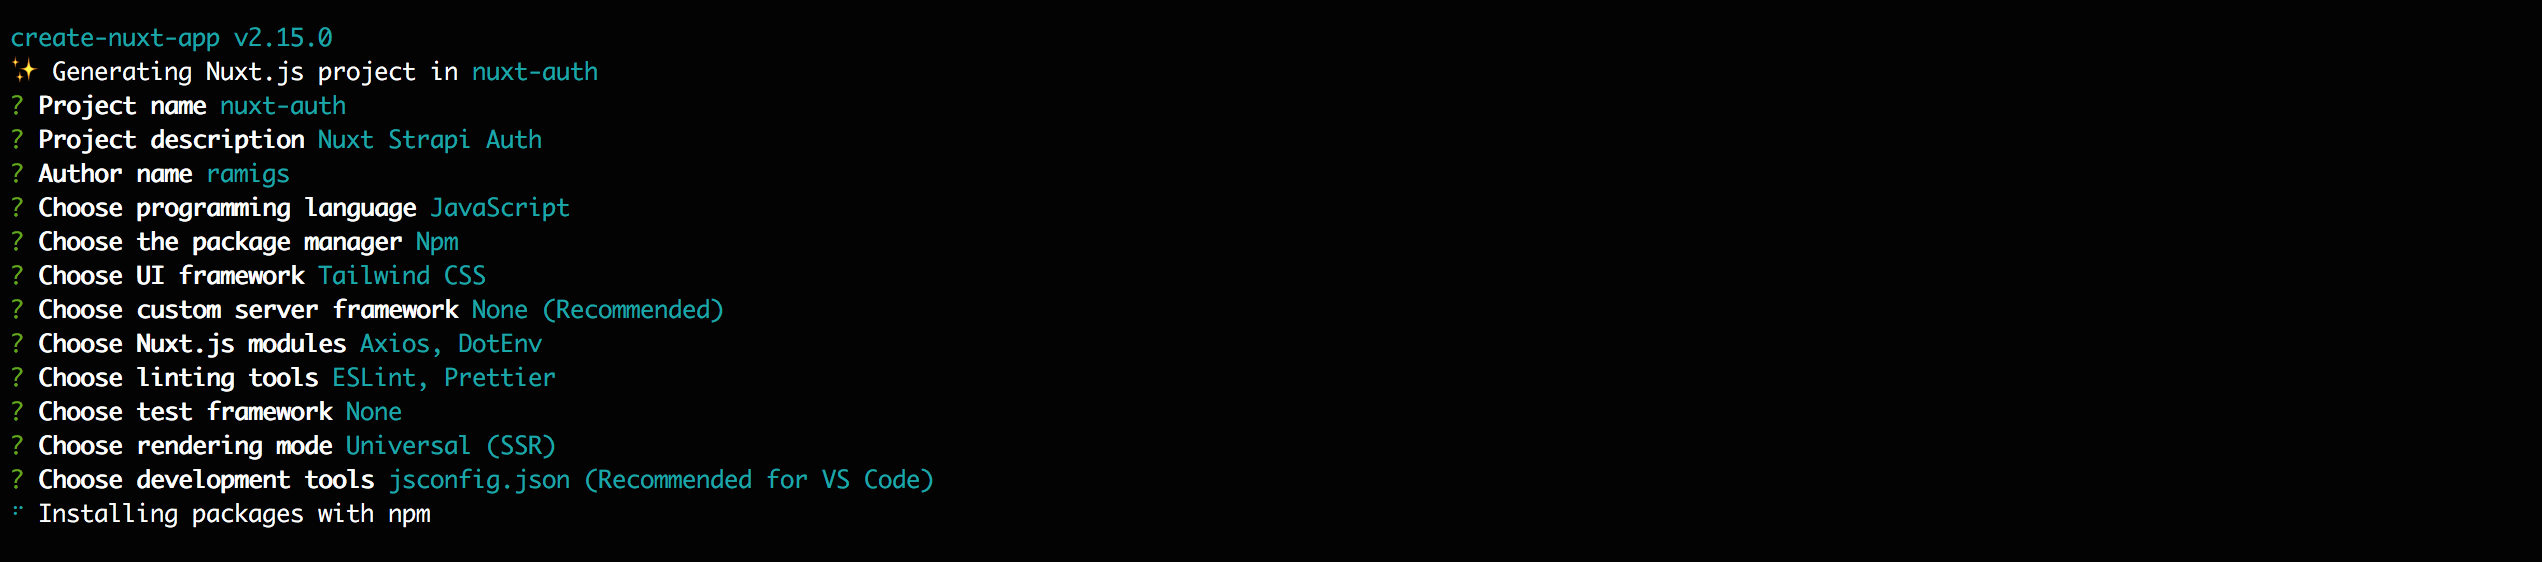
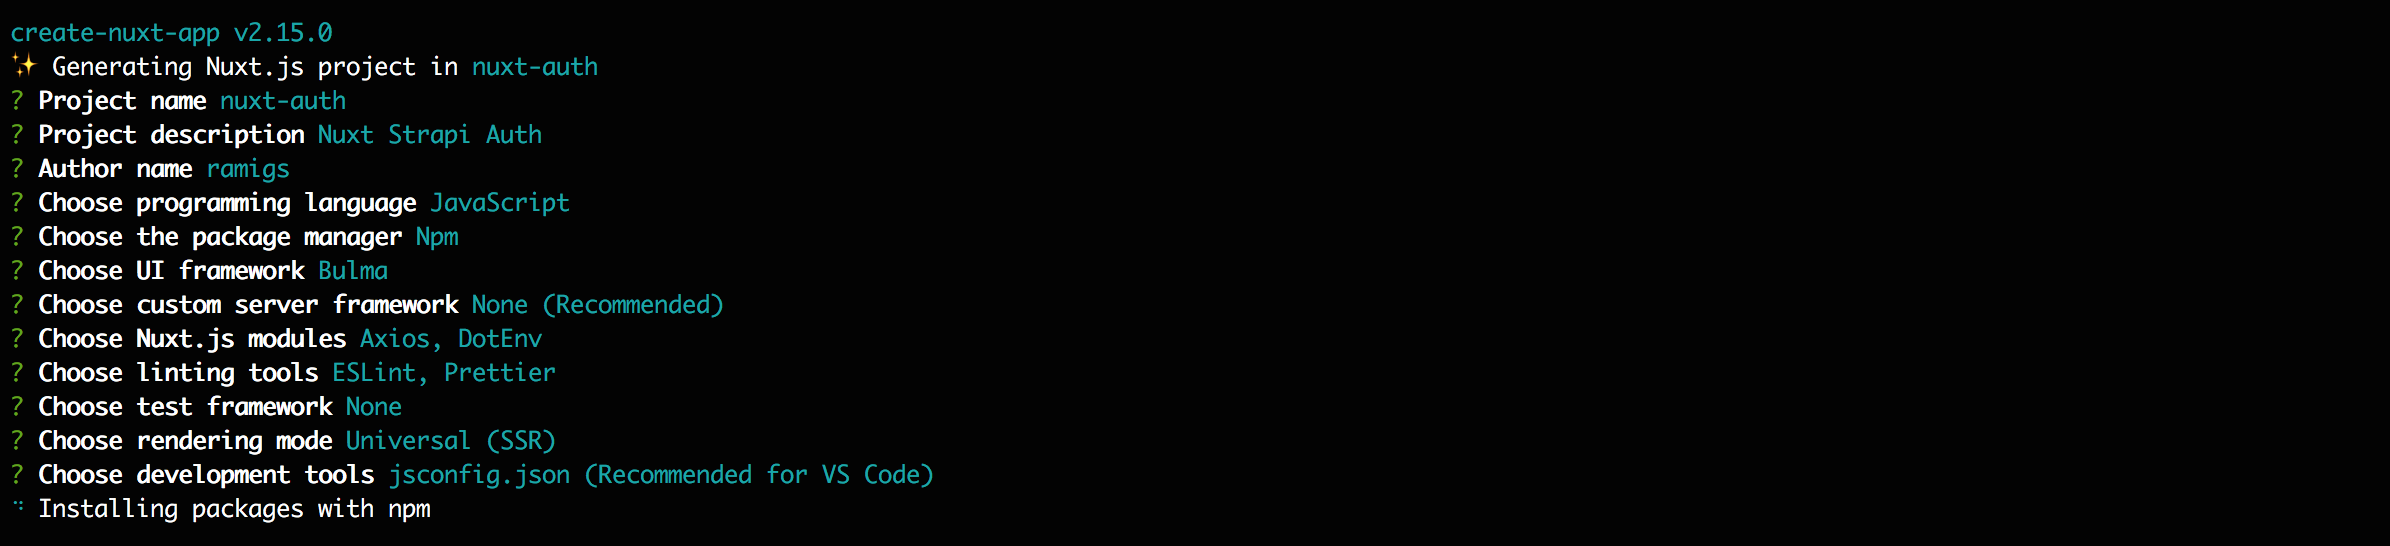
updated

Changed region(s): [[0.0, 0.0311, 0.4025, 0.9652]]

diff --git a/strapi-nuxt.md b/strapi-nuxt.md
@@ -1,5 +1,8 @@
 # Strapi Authentication in a Nuxt.js App
 
+In this tutorial I'll be showing you how I built a Vue.js app with
+Authentication using Cosmic JS and AWS Lambda prior to deploying to Netlify.
+
 is going to walk you through on how to implement Strapi
 authentication in a Nuxt.js app.
 
@@ -14,12 +17,9 @@ adapting it to Strapi and adding the following:
 - Refresh token strategy
 - Password recovery
 
-Tailwind (because I've been wanting to
-learn it for quite some time now :) also checkout the new nuxt/tailwind module.
-https://www.npmjs.com/package/@nuxtjs/tailwindcss
-
 ## Pre-requisites
 
+You will be required to have Node JS and npm before starting. Make sure you already have them installed. If not you can find them here: https://nodejs.org
 Before we move on, I’d like to mention that although not mandatory, a working
 knowledge of the following technologies is beneficial:
 
@@ -31,7 +31,7 @@ Before you begin, you'll need:
 Strapi 3.0.1
 Nuxt.js v2.12.2
 
-Let's begin!
+Let's get started!
 
 ## Installing Strapi
 
@@ -117,13 +117,16 @@ npx create-nuxt-app nuxt-auth
 Go through the guide and make sure to select the following options:
 
 - axios and dotenv in the **Nuxt.js modules** step
-- Tailwind CSS in the **UI framework** step, which we'll use to style our app
+- Bulma CSS in the **UI framework** step, which we'll use to style our app
 
 ![Create Nuxt app](./create-nuxt-app-options.png)
 
 Once the tool finishes creating our Nuxt app,
 
 Let's edit the .env file and add an environment variable for Strapi's API URL:
+"Next, you'll need to make sure you have a .env file in your root project
+directory to change the VUE_APP_API_HOST variable to point to the lambda server
+you just started running."
 
 ```
 API_AUTH_URL=http://localhost:1337
@@ -143,6 +146,8 @@ Edit `nuxt.config.js` adding the module we've just installed:
 
 ```javascript
 modules: [
+  // Doc: https://github.com/nuxt-community/modules/tree/master/packages/bulma
+  '@nuxtjs/bulma',
   // Doc: https://axios.nuxtjs.org/usage
   '@nuxtjs/axios',
   // Doc: https://github.com/nuxt-community/dotenv-module
@@ -157,38 +162,177 @@ In the top of nuxt.config.js require and configure dotenv:
 require("dotenv").config();
 ```
 
-"Next, we need to set up the modules. Paste the code below into `nuxt.config.js`:"
+"axios. Paste the code below into `nuxt.config.js`:"
 
 ```javascript
-/*
- ** Auth Module configuration
- ** See https://auth.nuxtjs.org/api/options.html
-*/
-auth: {
-  strategies: {
-    local: {
-      endpoints: {
-        login: {
-          url: `${process.env.API_AUTH_URL}/auth/local`,
-          method: 'post',
-          propertyName: 'jwt'
-        },
-        user: {
-          url: `${process.env.API_AUTH_URL}/users/me`,
-          method: 'get',
-          propertyName: false
-        },
-        logout: false
-      },
-      autoFetchUser: true
-    }
-  }
+axios: {
+  baseURL: process.env.API_AUTH_URL
 },
 ```
 
 ## Configuring Nuxt Auth
 
-## Creating Navbar
+"Next, we need to set up the modules. Paste the code below into `nuxt.config.js`:"
+
+```javascript
+/*
+ ** Auth module configuration
+ ** See https://auth.nuxtjs.org/schemes/local.html#options
+ */
+auth: {
+  strategies: {
+    local: {
+      endpoints: {
+        login: {
+          url: 'auth/local',
+          method: 'post',
+          propertyName: 'jwt'
+        },
+        user: {
+          url: 'users/me',
+          method: 'get',
+          propertyName: false
+        },
+        logout: false
+      }
+    }
+  }
+},
+```
+
+"Here, we set the base URL (which is that of our API from earlier on) that Axios
+will use when making requests. Then we define the authentication endpoints for
+the local strategy corresponding to those on our API. On successful
+authentication, the token will be available in the response as a token object
+inside a data object, hence why we set propertyName to data.token. Similarly,
+the response from the /me endpoint will be inside a data object. Lastly, we set
+logout to false since our API doesn’t have an endpoint for logout. We’ll just
+remove the token from localstorage when a user logs out."
+
+## Navbar Component
+
+`Navbar.vue` and replace it content with the following:
+
+```vue
+<template>
+  <nav class="navbar" role="navigation" aria-label="main navigation">
+    <div class="navbar-brand">
+      <nuxt-link class="navbar-item" to="/">Home</nuxt-link>
+
+      <a
+        role="button"
+        class="navbar-burger burger"
+        aria-label="menu"
+        aria-expanded="false"
+        data-target="navbarBasicExample"
+      >
+        <span aria-hidden="true"></span>
+        <span aria-hidden="true"></span>
+        <span aria-hidden="true"></span>
+      </a>
+    </div>
+
+    <div id="navbarBasicExample" class="navbar-menu">
+      <!--       <div class="navbar-start">
+        <div class="navbar-item has-dropdown is-hoverable">
+          <a class="navbar-link">
+            My Account
+          </a>
+
+          <div class="navbar-dropdown">
+            <nuxt-link class="navbar-item" to="/profile">My Profile</nuxt-link>
+            <hr class="navbar-divider" />
+            <a class="navbar-item">Logout</a>
+          </div>
+        </div>
+      </div> -->
+
+      <div class="navbar-end">
+        <div class="navbar-item">
+          <div class="buttons">
+            <nuxt-link class="button is-primary" to="/register">
+              <strong>Register</strong>
+            </nuxt-link>
+            <nuxt-link class="button is-light" to="/login">
+              Log in
+            </nuxt-link>
+          </div>
+        </div>
+      </div>
+    </div>
+  </nav>
+</template>
+
+<script>
+export default {
+  mounted() {
+    // Get all "navbar-burger" elements
+    const $navbarBurgers = Array.prototype.slice.call(
+      document.querySelectorAll(".navbar-burger"),
+      0
+    );
+    // Check if there are any navbar burgers
+    if ($navbarBurgers.length > 0) {
+      // Add a click event on each of them
+      $navbarBurgers.forEach((el) => {
+        el.addEventListener("click", () => {
+          // Get the target from the "data-target" attribute
+          const target = el.dataset.target;
+          const $target = document.getElementById(target);
+          // Toggle the "is-active" class on both the "navbar-burger" and the "navbar-menu"
+          el.classList.toggle("is-active");
+          $target.classList.toggle("is-active");
+        });
+      });
+    }
+  },
+};
+</script>
+```
+
+"The Navbar component contains links to login or register, links to view profile
+or logout."
+
+## Default Layout
+
+"Next, let’s update the default layout to make use of the Navbar component. Open
+layouts/default.vue and replace its content with the following:"
+
+```vue
+<template>
+  <div>
+    <Navbar />
+    <nuxt />
+  </div>
+</template>
+
+<script>
+import Navbar from "~/components/Navbar";
+
+export default {
+  components: {
+    Navbar,
+  },
+};
+</script>
+```
+
+## Home
+
+"Also, let’s update the homepage. Open pages/index.vue and replace its content
+with the following:"
+
+```vue
+<template>
+  <section class="section">
+    <div class="container">
+      <h1 class="title">Nuxt Auth</h1>
+    </div>
+  </section>
+</template>
+```
+
+This is what we have so far:
 
 ## Register
 
